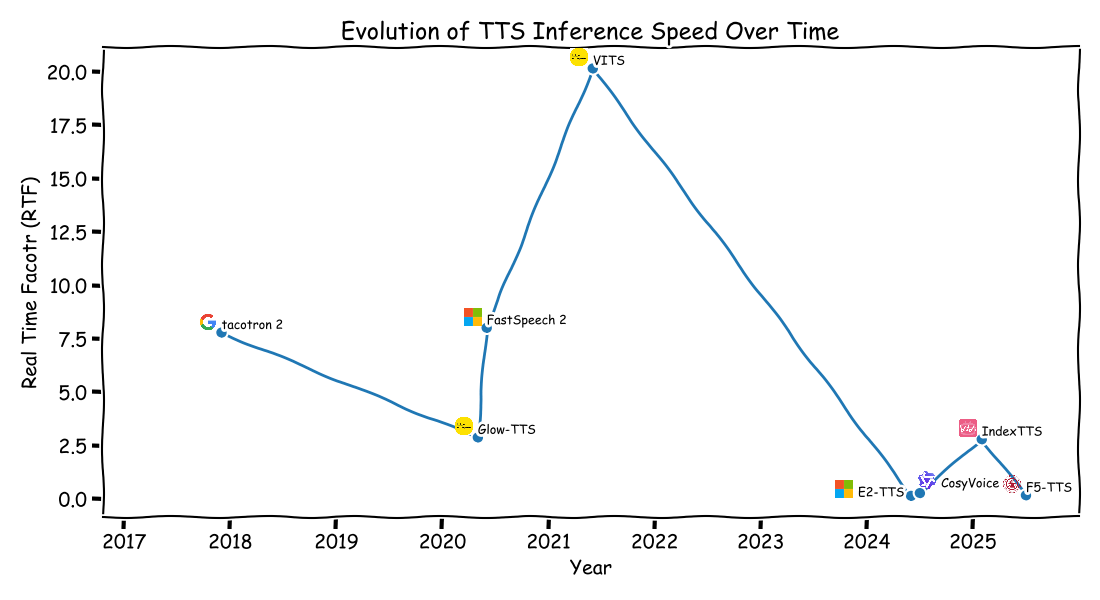
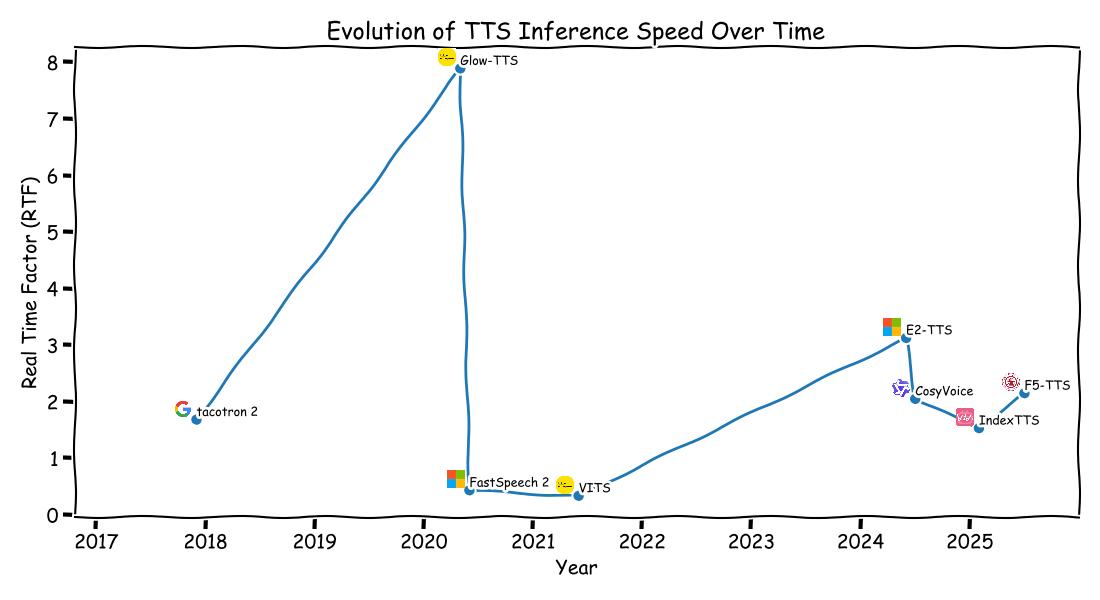
fix the issue of wrong rtf calculation

diff --git a/README.md b/README.md
@@ -7,14 +7,14 @@ Results are calculated by generating the provided samples on consumer-level hard
 
 | Model | Year | CUDA Memory | RTF | Deployability |
 |-------|------|-------------|-----| ------------- | 
-| Tacotron 1 & 2 | 2017-DEC | 1722.72 (MB) | 7.79 | 2.21|
-| FastSpeech 1 & 2 | 2020-JUN | 443.29 (MB) | 8.01 | 4.21 |
-| Glow-TTS | 2020-MAY | 8077.96 (MB) | 2.87  | -1.46 |
-| VITS | 2021-JUN | 343.41 (MB) | 20.16 | 5.91 |
-| E2-TTS | 2024-JUN | 3200 (MB) | 0.14 | -4.50 |
-| F5-TTS | 2025-JUL | 2200 (MB) | 0.16 | -3.72 |
-| CosyVoice | 2024-JUL | 2097.67 (MB) | 0.27 | -2.94 |
-| IndexTTS | 2025-FEB | 1567.35 (MB) | 2.79 | 0.86 | 
+| Tacotron 1 & 2 | 2017-DEC | 1722.72 (MB) | 0.35 | 2.21|
+| FastSpeech 1 & 2 | 2020-JUN | 443.29 (MB) | 0.12 | 4.21 |
+| Glow-TTS | 2020-MAY | 8077.96 (MB) | 0.35  | -1.46 |
+| VITS | 2021-JUN | 343.41 (MB) | 0.05 | 5.91 |
+| E2-TTS | 2024-JUN | 3200 (MB) | 7.23 | -4.50 |
+| F5-TTS | 2025-JUL | 2200 (MB) | 6.15 | -3.72 |
+| CosyVoice | 2024-JUL | 2097.67 (MB) | 3.74 | -2.94 |
+| IndexTTS | 2025-FEB | 1567.35 (MB) | 0.36 | 0.86 | 
 
 # Speech Samples
 👉 **Demo page:**  
